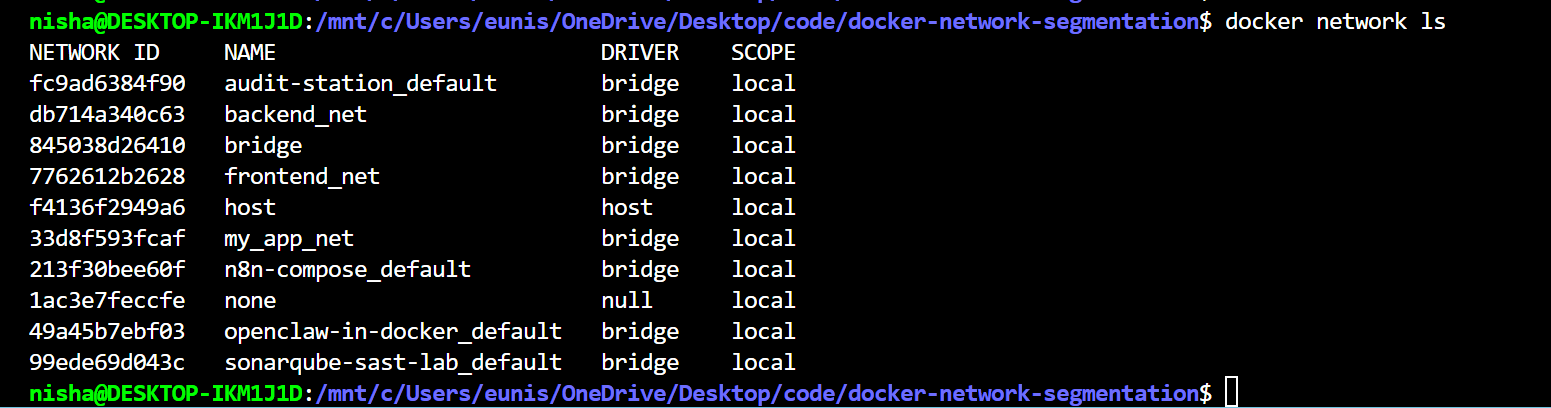
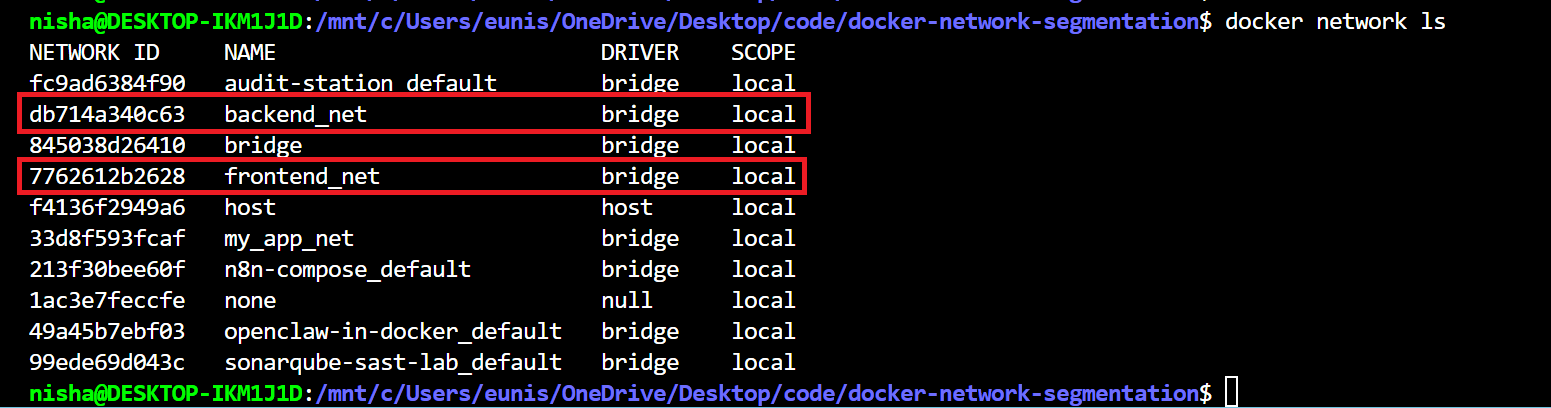
feat: stage 2 - redis, none network, host network, custom CIDR subnets

Changed region(s): [[0.0, 0.2059, 0.5261, 0.3529], [0.0, 0.3824, 0.5261, 0.5]]

diff --git a/docs/verification.md b/docs/verification.md
@@ -8,6 +8,8 @@ Stage 1 establishes a three-tier architecture across two isolated bridge network
 
 ### 1. All three containers running
 
+![All three containers running in Docker Desktop](images/stage1-containers-running-00.png)
+
 ![All three containers running in Docker Desktop](images/stage1-containers-running.png)
 
 Docker Desktop showing `postgres_db`, `flask_api`, and `nginx` all running simultaneously. nginx has port 80:80 mapped to the host, the only exposed port in the stack.
@@ -57,6 +59,7 @@ All four verification commands in a single frame:
 
 `./scripts/verify.sh stage1` passing all 7 checks. Confirms the full stack, API endpoints, network isolation, and database connectivity in a single repeatable run.
 
+---
 
 ### Summary
 
@@ -66,3 +69,87 @@ All four verification commands in a single frame:
 | DB query | `curl /api/data` | PostgreSQL version | ✅ Pass |
 | Isolation: nginx blocked | `docker exec nginx ping postgres_db` | `bad address` | ✅ Pass |
 | Isolation: flask_api allowed | `python psycopg2.connect(...)` | connected | ✅ Pass |
+
+---
+
+## Stage 2: Docker Network Segmentation
+
+Stage 2 extends the baseline with Redis on `backend_net`, a fully isolated `admin_probe` container on the `none` network, a host network comparison, and custom CIDR subnets with static IP assignments.
+
+---
+
+### 1. All five containers running
+
+![All five containers running in Docker Desktop](images/stage2-containers-running-00.png)
+
+![All five containers running in Docker Desktop](images/stage2-containers-running-01.png)
+
+Docker Desktop showing all five containers running simultaneously: `nginx`, `flask_api`, `postgres_db`, `redis_cache`, and `admin_probe`.
+
+---
+
+### 2. DNS resolution from flask_api
+
+![flask_api resolving redis_cache and postgres_db by container name](images/stage2-dns-resolution-flask-api.png)
+
+`flask_api` resolving both backend services by container name using Docker's embedded DNS resolver at `127.0.0.11`. `redis_cache` resolves to `172.31.0.11` and `postgres_db` resolves to `172.31.0.10`, the static IPs assigned in Phase D. Container names resolve correctly regardless of IP assignment.
+
+---
+
+### 3. nginx blocked from backend_net services
+
+![nginx nslookup returning NXDOMAIN for redis_cache and postgres_db](images/stage2-nginx-nslookup-blocked.png)
+
+`nslookup` from nginx returning `NXDOMAIN` for both `redis_cache` and `postgres_db`. The DNS resolver at `127.0.0.11` is present in every container but only returns records for services on shared networks. nginx is on `frontend_net` only, so backend services are invisible to it.
+
+---
+
+### 4. admin_probe network interfaces
+
+![admin_probe ip addr showing loopback interface only](images/stage2-admin-probe-ip-addr.png)
+
+`ip addr` inside `admin_probe` showing only the `lo` loopback interface at `127.0.0.1`. No `eth0`, no Docker veth pair. Docker created a network namespace for the container but attached nothing to it.
+
+---
+
+### 5. admin_probe isolation proof
+
+![admin_probe ping failures showing three distinct error types](images/stage2-admin-probe-isolation.png)
+
+Three distinct failure modes from `admin_probe` on the `none` network:
+
+- `ping 8.8.8.8` returns `Network unreachable`, the kernel has no interface to route the packet on
+- `ping nginx` returns `bad address`, no DNS resolver is attached so name resolution fails before a packet is attempted
+- `ping flask_api` returns `bad address` for the same reason
+
+---
+
+### 6. flask_api dual IP assignment
+
+![docker inspect showing flask_api with two IP addresses](images/stage2-flask-api-dual-ip.png)
+
+`docker inspect flask_api` showing two IP addresses: `172.31.0.20` on `backend_net` and `172.30.0.20` on `frontend_net`. This confirms flask_api holds a presence on both networks simultaneously.
+
+---
+
+### 7. Automated verification script
+
+![verify.sh passing all 15 Stage 2 checks](images/stage2-verify-script.png)
+
+`./scripts/verify.sh stage2` passing all 15 checks across both stages. Confirms Stage 1 isolation still holds after Stage 2 extensions, all new services are running, DNS resolution works from flask_api, nginx is blocked from all backend services, and admin_probe has no network access.
+
+---
+
+### Summary
+
+| Test | Expected | Result |
+|---|---|---|
+| All 5 containers running | Up | ✅ Pass |
+| flask_api resolves redis_cache | 172.31.0.11 | ✅ Pass |
+| flask_api resolves postgres_db | 172.31.0.10 | ✅ Pass |
+| nginx cannot resolve redis_cache | NXDOMAIN | ✅ Pass |
+| nginx cannot resolve postgres_db | NXDOMAIN | ✅ Pass |
+| admin_probe: no external route | Network unreachable | ✅ Pass |
+| admin_probe: no DNS | bad address | ✅ Pass |
+| flask_api dual IP | 172.30.0.20, 172.31.0.20 | ✅ Pass |
+| Full verify script | 15/15 pass | ✅ Pass |

diff --git a/README.md b/README.md
@@ -4,23 +4,26 @@
 ![Python](https://img.shields.io/badge/Python_3.12-3776AB?style=flat&logo=python&logoColor=white)
 ![Nginx](https://img.shields.io/badge/Nginx-009639?style=flat&logo=nginx&logoColor=white)
 ![PostgreSQL](https://img.shields.io/badge/PostgreSQL_16-4169E1?style=flat&logo=postgresql&logoColor=white)
+![Redis](https://img.shields.io/badge/Redis_7-DC382D?style=flat&logo=redis&logoColor=white)
 ![License](https://img.shields.io/badge/License-MIT-green?style=flat)
 
 Multi-tier service isolation using Docker bridge networks, built without Compose.
 
-![Stage 1 network topology](docs/images/stage1-architecture.png)
+![Stage 2 network topology](docs/images/stage2-architecture.svg)
 
 ---
 
 ## Architecture
 
-Three containers across two isolated bridge networks. nginx is the single host-facing entry point. postgres_db is unreachable from nginx by design. Only flask_api, which bridges both networks, can connect to it.
+Five containers across two isolated bridge networks, a none network, and a host network exercise. nginx is the single host-facing entry point. postgres_db and redis_cache are unreachable from nginx. Only flask_api, which bridges both networks, can reach backend services.
 
-| Container | Network(s) | Port |
+| Container | Network | IP |
 |---|---|---|
-| nginx | frontend_net | 80:80 (host) |
-| flask_api | frontend_net, backend_net | internal only |
-| postgres_db | backend_net | internal only |
+| nginx | frontend_net | 172.30.0.10 |
+| flask_api | frontend_net, backend_net | 172.30.0.20, 172.31.0.20 |
+| postgres_db | backend_net | 172.31.0.10 |
+| redis_cache | backend_net | 172.31.0.11 |
+| admin_probe | none | loopback only |
 
 See [docs/architecture.md](docs/architecture.md) for design decisions.
 
@@ -34,25 +37,30 @@ See [docs/architecture.md](docs/architecture.md) for design decisions.
 # Build the API image
 docker build -t flask_api ./services/api
 
-# Create networks
-docker network create frontend_net
-docker network create backend_net
+# Create networks with custom CIDRs
+docker network create --driver bridge --subnet 172.30.0.0/24 --gateway 172.30.0.1 frontend_net
+docker network create --driver bridge --subnet 172.31.0.0/24 --gateway 172.31.0.1 backend_net
 
 # Start containers
-docker run -d --name postgres_db --network backend_net \
+docker run -d --name postgres_db --network backend_net --ip 172.31.0.10 \
   -e POSTGRES_DB=appdb -e POSTGRES_USER=appuser -e POSTGRES_PASSWORD=secret \
   postgres:16-alpine
 
-docker run -d --name flask_api --network backend_net \
+docker run -d --name redis_cache --network backend_net --ip 172.31.0.11 \
+  redis:7-alpine
+
+docker run -d --name flask_api --network backend_net --ip 172.31.0.20 \
   -e DB_HOST=postgres_db -e DB_NAME=appdb \
   -e DB_USER=appuser -e DB_PASSWORD=secret \
   flask_api
 
-docker network connect frontend_net flask_api
+docker network connect --ip 172.30.0.20 frontend_net flask_api
 
-docker run -d --name nginx --network frontend_net -p 80:80 \
+docker run -d --name nginx --network frontend_net --ip 172.30.0.10 -p 80:80 \
   -v $(pwd)/services/nginx/nginx.conf:/etc/nginx/nginx.conf:ro \
   nginx:alpine
+
+docker run -d --name admin_probe --network none alpine sleep infinity
 ```
 
 ---
@@ -60,13 +68,10 @@ docker run -d --name nginx --network frontend_net -p 80:80 \
 ## Verify
 
 ```bash
-curl http://localhost/api/health        # {"status":"ok"}
-curl http://localhost/api/data          # PostgreSQL version returned
-
-docker exec nginx ping -c 2 postgres_db # bad address, isolation confirmed
+./scripts/verify.sh stage2
 ```
 
-See [docs/verification.md](docs/verification.md) for full verification output and screenshots.
+See [docs/verification.md](docs/verification.md) for full output and screenshots.
 
 ---
 
@@ -89,6 +94,3 @@ docker-network-segmentation/
 │   └── verification.md
 └── README.md
 ```
-
----
-

diff --git a/docs/architecture.md b/docs/architecture.md
@@ -12,10 +12,31 @@
 
 **Only nginx exposes a host port.** Exposing a port on flask_api or postgres_db directly would allow connections that bypass nginx entirely. Port 80 on nginx is the single entry point into the stack.
 
-**Container names instead of IPs.** Docker's embedded DNS resolver at `127.0.0.11` resolves container names within a shared network. IPs change on container restart but names do not. A container not on the same network cannot resolve the name at all, which is why `nginx ping postgres_db` returns `bad address` rather than a timeout.
+**Container names instead of IPs.** Docker's embedded DNS resolver at `127.0.0.11` resolves container names within a shared network. IPs change on container restart but names do not. A container not on the same network cannot resolve the name at all, which is why `nginx nslookup postgres_db` returns `NXDOMAIN` rather than a timeout.
 
 **Isolation is kernel-enforced, not config-enforced.** Network namespace separation means a container has no interface on a network it is not connected to. There is no firewall rule to misconfigure. The path simply does not exist.
 
 ---
 
+## Stage 2: Docker Network Segmentation
 
+![Stage 2 network topology](images/stage2-architecture.svg)
+
+### Extensions
+
+**Redis on backend_net.** `redis_cache` joins `backend_net` alongside `postgres_db`. flask_api resolves both services by container name. nginx returns `NXDOMAIN` for both, confirming that adding a service to `backend_net` does not change what nginx can reach.
+
+**None network isolation.** `admin_probe` runs on `--network none`. Docker creates a network namespace for the container but attaches no interfaces to it. `ip addr` shows only loopback. Name resolution fails entirely because no DNS resolver is injected. External routing fails because no interface exists to send packets on.
+
+**Host network comparison.** A short-lived Alpine container run with `--network host` shares the host's network namespace directly. `ip addr` exposes every Docker bridge interface and veth pair currently active on the machine, including the host-side ends of the connections to every running container. This is the opposite end of the isolation spectrum from the none network.
+
+**Custom CIDR subnets with static IPs.** Networks recreated with explicit subnets (`172.30.0.0/24` for `frontend_net`, `172.31.0.0/24` for `backend_net`) and containers assigned static IPs within those ranges. flask_api holds two IPs simultaneously, one per network.
+
+| Container | Network | IP |
+|---|---|---|
+| nginx | frontend_net | 172.30.0.10 |
+| flask_api | frontend_net | 172.30.0.20 |
+| flask_api | backend_net | 172.31.0.20 |
+| postgres_db | backend_net | 172.31.0.10 |
+| redis_cache | backend_net | 172.31.0.11 |
+| admin_probe | none | 127.0.0.1 only |
